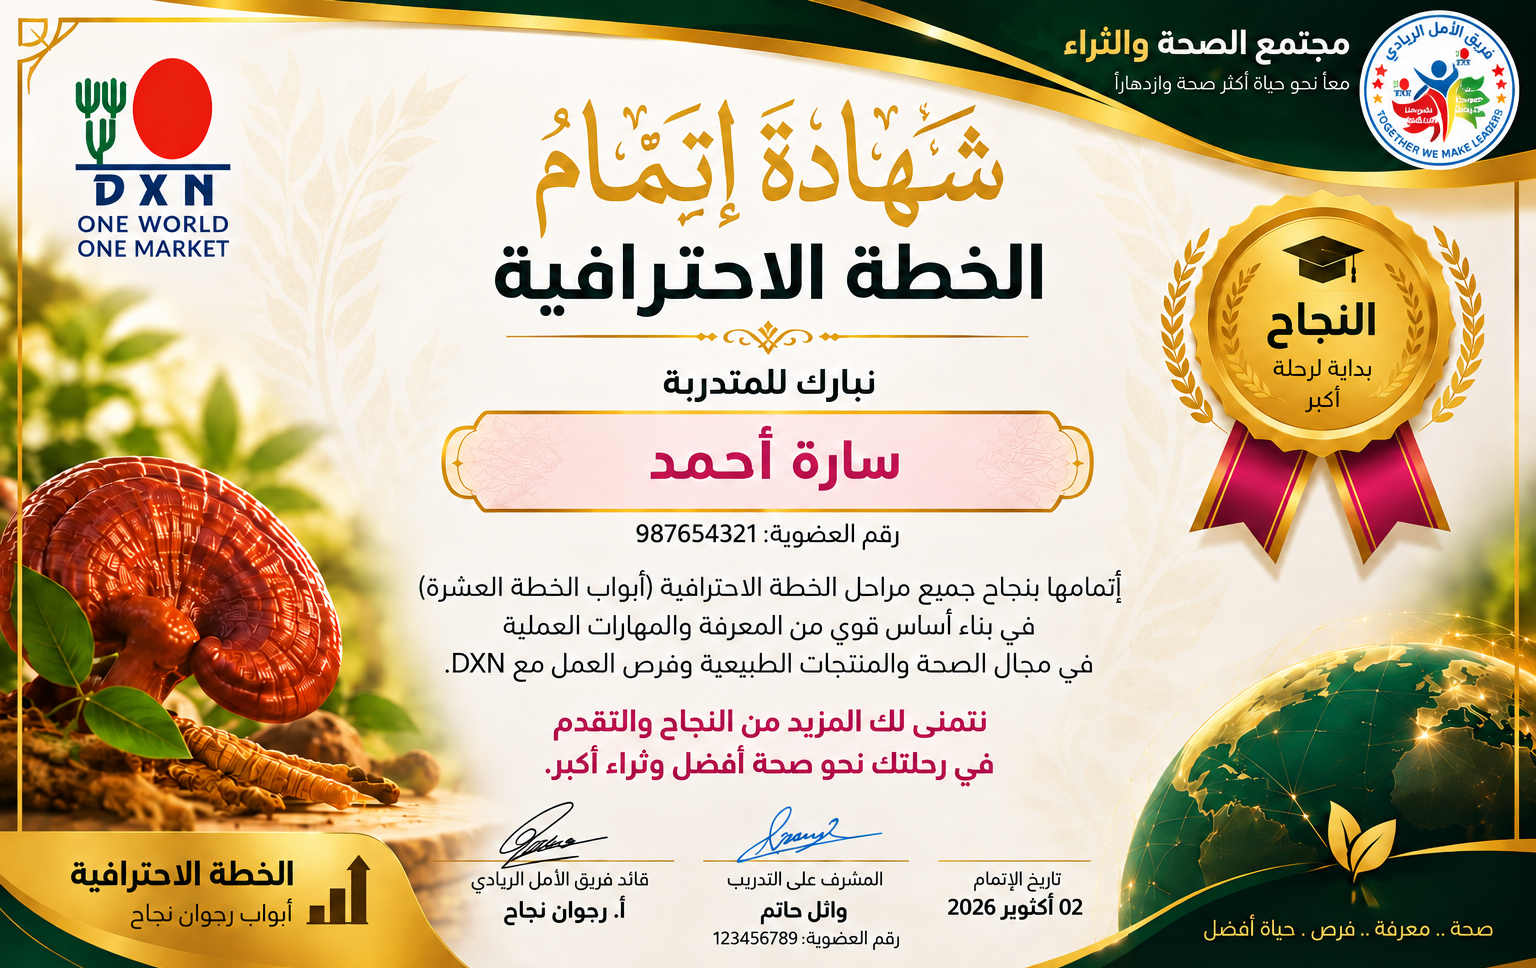
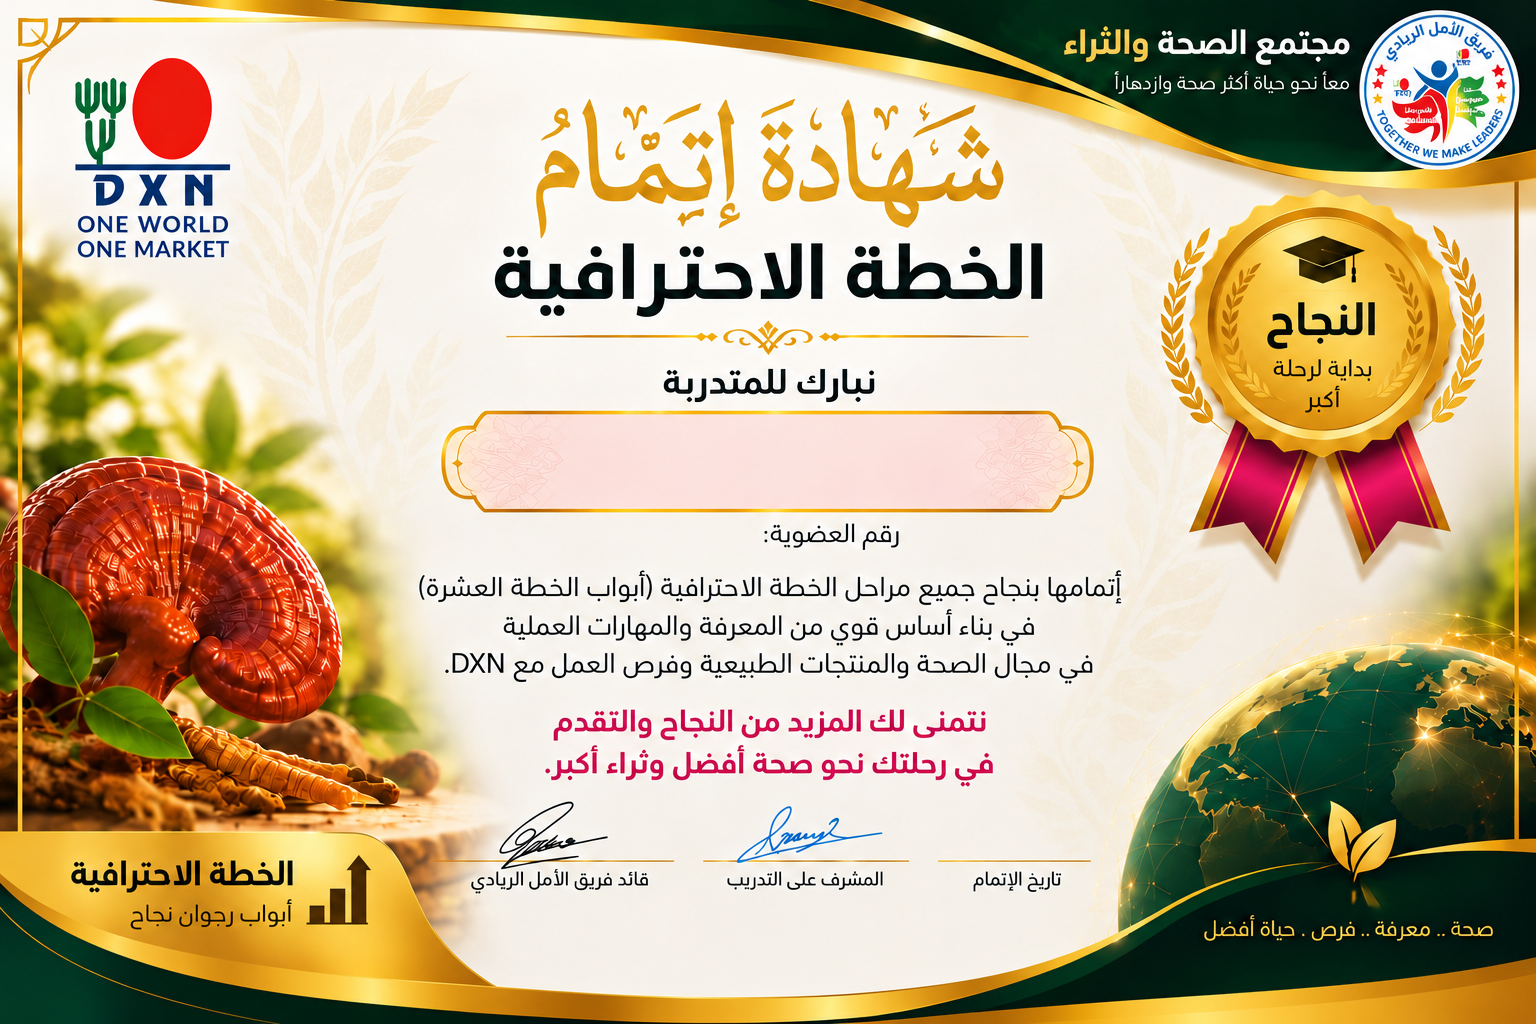
Use blank Ragwan certificate templates in preview

diff --git a/app/config.js b/app/config.js
@@ -13,5 +13,5 @@ window.DXN_CONFIG={SUPABASE_URL:'https://ryqpstkzppaifpvhezzn.supabase.co',SUPAB
   function patchClient(){try{if(!window.supabase||typeof window.supabase.createClient!=='function'||window.supabase.createClient.__dxnV8632)return false;var original=window.supabase.createClient;function wrapped(){var client=original.apply(this,arguments);if(client&&typeof client.rpc==='function'&&!client.rpc.__dxnV8632){client.rpc=sdkRpc;client.rpc.__dxnV8632=true}return client}wrapped.__dxnV8632=true;window.supabase.createClient=wrapped;return true}catch(e){return false}}
   patchClient();var c=0,ct=setInterval(function(){if(patchClient()||++c>240)clearInterval(ct)},50);
 })();
-(function(){function load(src){var s=document.createElement('script');s.src=src;s.async=false;document.head.appendChild(s)}function go(){load('/device-mode.js?v=86.65');load('/device-selector-dedupe.js?v=86.66');load('/member-training-profile.js?v=86.13.11');load('/external-training-assessment-profile.js?v=2.1.3');load('training-overall-progress.js?v=86.13');load('mobile-nav-fix.js?v=86.27');load('priority-notification.js?v=86.44');load('training-assessment.js?v=86.46.1');load('training-assessment-layout.js?v=86.44.4');load('training-assessment-buttons.js?v=86.44.6');load('training-assessment-lock.js?v=86.46.45');load('training-ai-grader.js?v=86.46.9');load('membership-registration-guard.js?v=86.50.1');load('training-leader-cleanup.js?v=86.46.18');load('training-question-manager.js?v=86.46.21');load('training-question-manager-ai-hotfix.js?v=86.46.28');load('training-role-ui-fix.js?v=86.46.34');load('/branding-ui-fix.js?v=86.46.34');load('/app/login-scene.js?v=86.67');load('/app/login-copyright-fix.js?v=86.58');load('/global-search.js?v=1.0.2');load('/app/ragwan-certificate.js?v=1.0.3')}if(document.readyState==='loading')document.addEventListener('DOMContentLoaded',go,{once:true});else go()})();
+(function(){function load(src){var s=document.createElement('script');s.src=src;s.async=false;document.head.appendChild(s)}function go(){load('/device-mode.js?v=86.65');load('/device-selector-dedupe.js?v=86.66');load('/member-training-profile.js?v=86.13.11');load('/external-training-assessment-profile.js?v=2.1.3');load('training-overall-progress.js?v=86.13');load('mobile-nav-fix.js?v=86.27');load('priority-notification.js?v=86.44');load('training-assessment.js?v=86.46.1');load('training-assessment-layout.js?v=86.44.4');load('training-assessment-buttons.js?v=86.44.6');load('training-assessment-lock.js?v=86.46.45');load('training-ai-grader.js?v=86.46.9');load('membership-registration-guard.js?v=86.50.1');load('training-leader-cleanup.js?v=86.46.18');load('training-question-manager.js?v=86.46.21');load('training-question-manager-ai-hotfix.js?v=86.46.28');load('training-role-ui-fix.js?v=86.46.34');load('/branding-ui-fix.js?v=86.46.34');load('/app/login-scene.js?v=86.67');load('/app/login-copyright-fix.js?v=86.58');load('/global-search.js?v=1.0.2');load('/app/ragwan-certificate.js?v=1.0.1')}if(document.readyState==='loading')document.addEventListener('DOMContentLoaded',go,{once:true});else go()})();
 /* V86.41 — remove only the leader-admin card titled "📚 متابعة التدريبات". */

diff --git a/app/ragwan-certificate.js b/app/ragwan-certificate.js
@@ -5,8 +5,8 @@
   'use strict';
 
   const TEMPLATE_URLS={
-    male:['/app/assets/certificates/ragwan-professional-plan-certificate-male.png','/assets/certificates/ragwan-professional-plan-certificate-male.png','./assets/certificates/ragwan-professional-plan-certificate-male.png','./app/assets/certificates/ragwan-professional-plan-certificate-male.png'],
-    female:['/app/assets/certificates/ragwan-professional-plan-certificate-female.png','/assets/certificates/ragwan-professional-plan-certificate-female.png','./assets/certificates/ragwan-professional-plan-certificate-female.png','./app/assets/certificates/ragwan-professional-plan-certificate-female.png']
+    male:['/assets/certificates/ragwan-professional-plan-certificate-male.png','/app/assets/certificates/ragwan-professional-plan-certificate-male.png'],
+    female:['/assets/certificates/ragwan-professional-plan-certificate-female.png','/app/assets/certificates/ragwan-professional-plan-certificate-female.png']
   };
   const GENDER_KEY='ragwan_certificate_gender_';
 
@@ -59,10 +59,10 @@
     const completion=window.ragwanLastCompletion||{};
     const sponsor=currentIdentity();
     return {
-      traineeName:String(completion.member_name||completion.trainee_name||completion.name||trainee.name||'').trim(),
-      traineeNo:String(completion.member_no||completion.trainee_member_no||completion.membership_number||completion.membership_no||trainee.member_no||trainee.membership_no||trainee.membership_number||'').trim(),
-      sponsorName:'أ. رجوان نجاح',
-      sponsorRole:'قائد فريق الامل الريادي',
+      traineeName:String(completion.member_name||trainee.name||'').trim(),
+      traineeNo:String(completion.member_no||trainee.member_no||'').trim(),
+      sponsorName:String(completion.sponsor_member_name||sponsor.name||'').trim(),
+      sponsorNo:String(completion.sponsor_member_no||sponsor.member_no||'').trim(),
       completedAt:String(completion.completed_at||trainee.completed_at||new Date().toISOString())
     };
   }
@@ -133,15 +133,13 @@
     const baseFill=male?'#fff9e9':'#fff4f8';
     const valueColor=male?'#07563f':'#a4144e';
 
-    /* Keep the approved artwork intact; only replace its sample personalization values. */
-    cover(ctx,475,420,610,70,baseFill);
+    /*
+     * The GitHub templates are now genuinely blank in the three variable fields.
+     * Do NOT paint over the artwork. Draw only the dynamic values directly onto
+     * the existing blank areas.
+     */
     drawCentered(ctx,data.traineeName,780,458,570,58,26,valueColor,950);
-
-    cover(ctx,575,520,410,48,baseFill);
     drawCentered(ctx,data.traineeNo,780,544,360,30,16,'#1c2522',850);
-
-    /* Replace the completion date with the actual plan-completion date. */
-    cover(ctx,930,880,190,72,baseFill);
     drawCentered(ctx,formatArabicDate(data.completedAt),1025,917,175,23,14,'#1c2522',850);
 
     return canvas;
